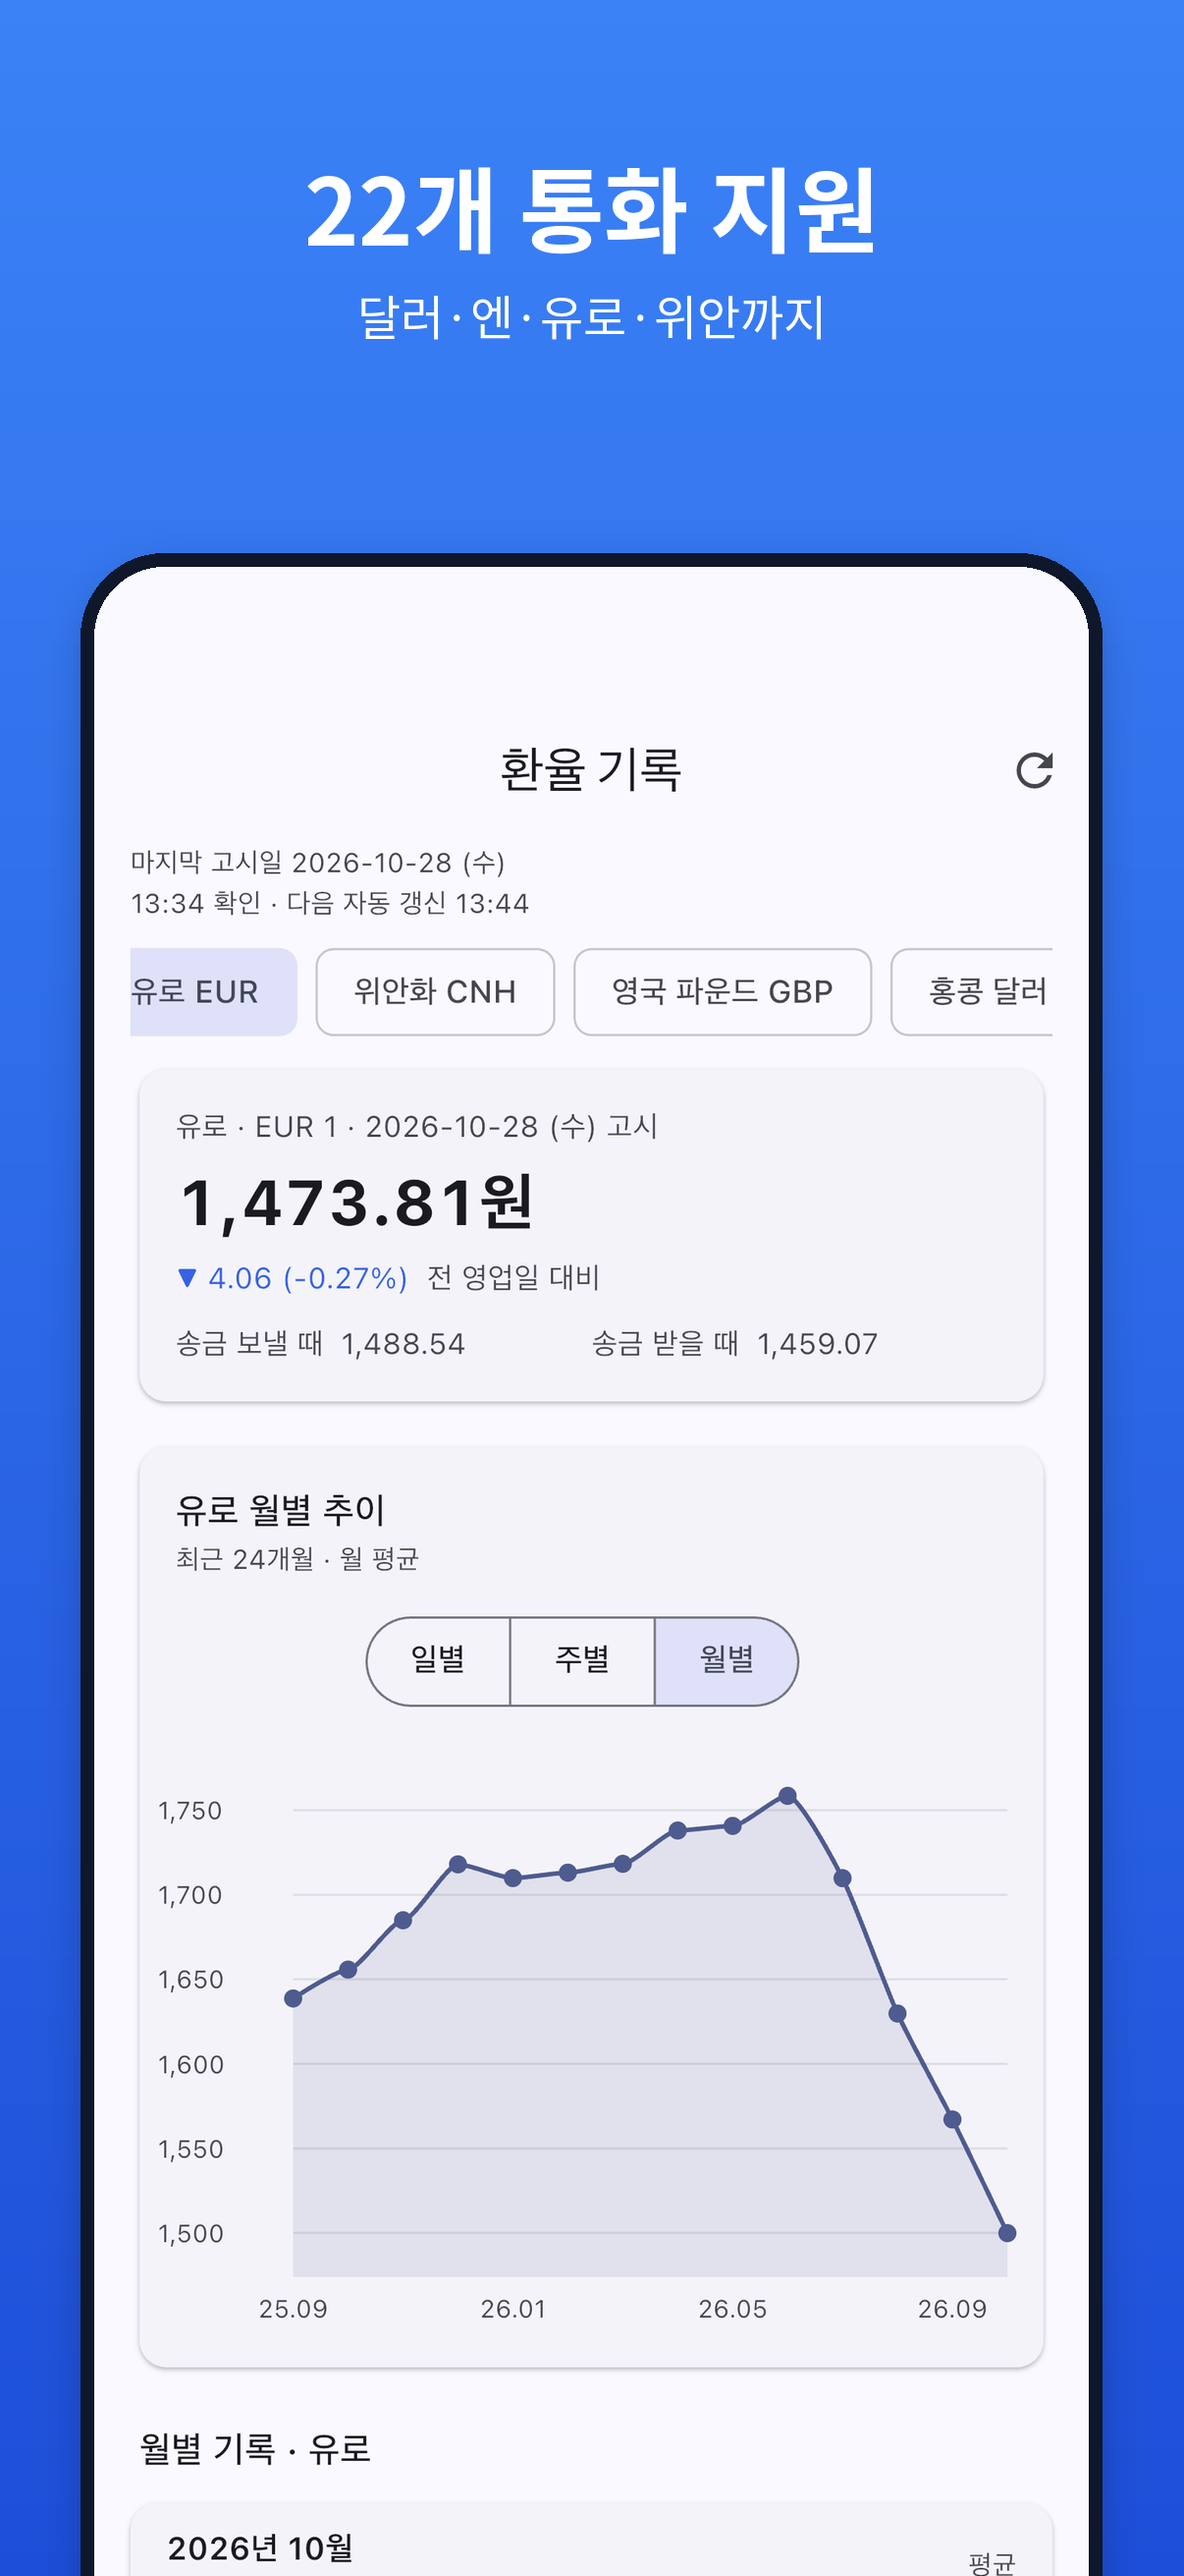
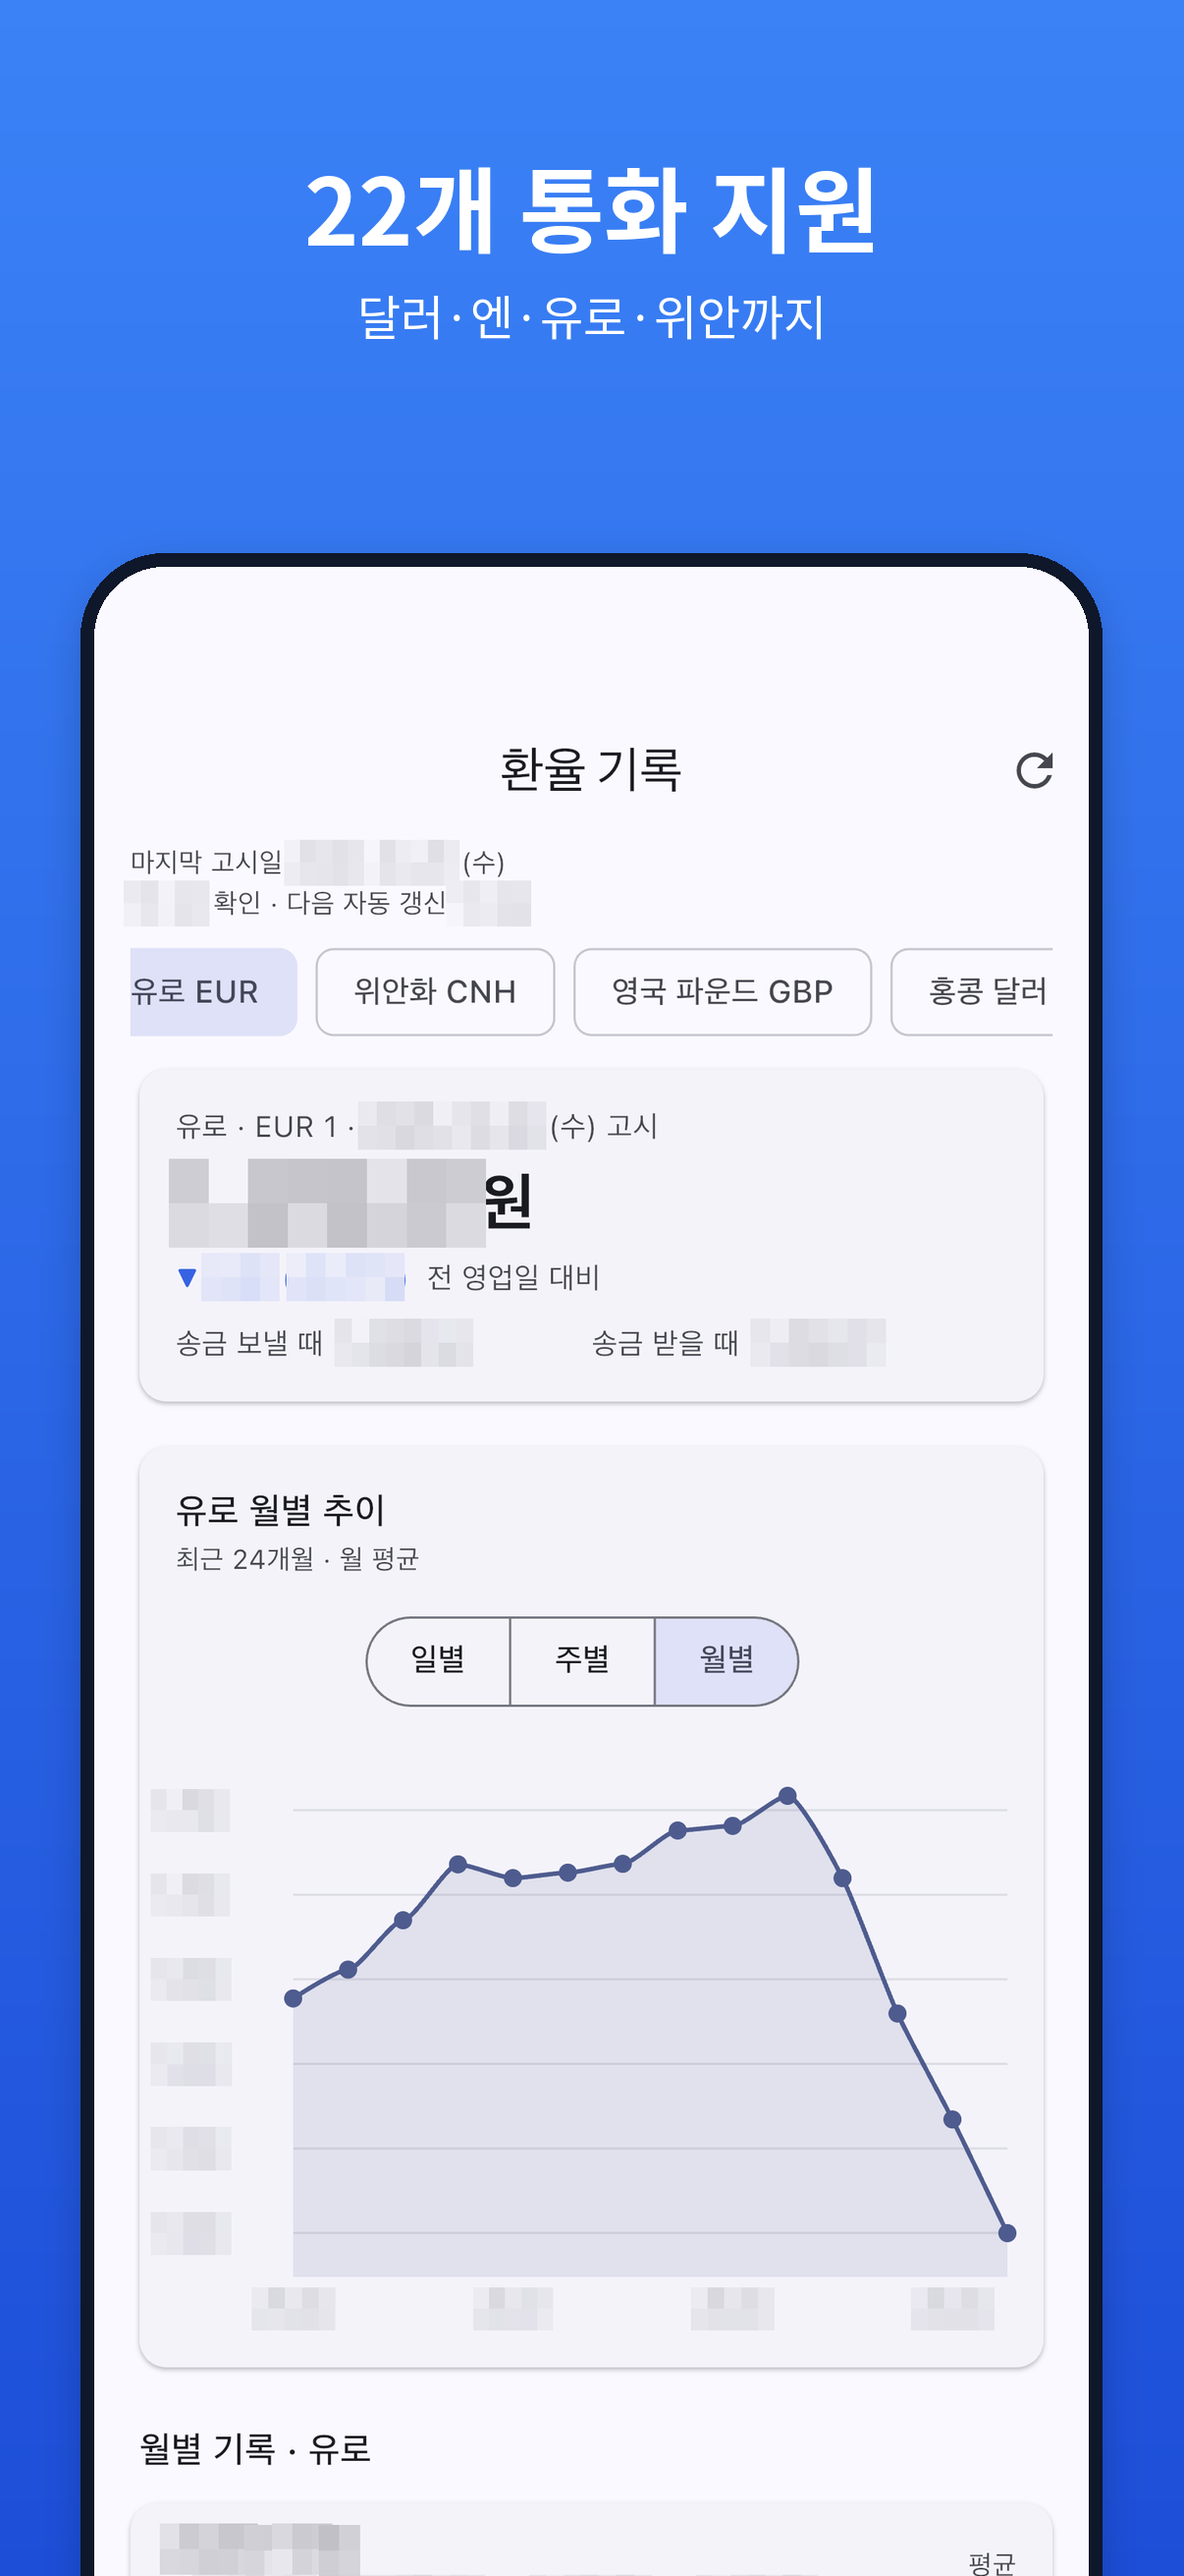
스크린샷 날짜·환율 모자이크본 추가, 원본은 screenshots-original로 분리
Claude-Session: https://claude.ai/code/session_014sz1SjcnwJ7HZPM6hRhbwQ

diff --git a/store-assets/frame_screenshots.py b/store-assets/frame_screenshots.py
@@ -136,7 +136,10 @@ def mask_sensitive(img, meta_path):
     pad = 3 * scale
     block = max(8, round(img.width / 70))
     for r in rects:
-        pixelate(img, (r["l"] * scale - pad, r["t"] * scale - pad, r["r"] * scale + pad, r["b"] * scale + pad), block)
+        # 큰 글자는 모자이크 칸도 크게 (글자 높이의 절반 정도면 읽히지 않음)
+        h = (r["b"] - r["t"]) * scale
+        pixelate(img, (r["l"] * scale - pad, r["t"] * scale - pad, r["r"] * scale + pad, r["b"] * scale + pad),
+                 max(block, round(h / 2)))
     if meta.get("tooltip") and not meta.get("dark"):
         box = find_tooltip(img)
         if box:
